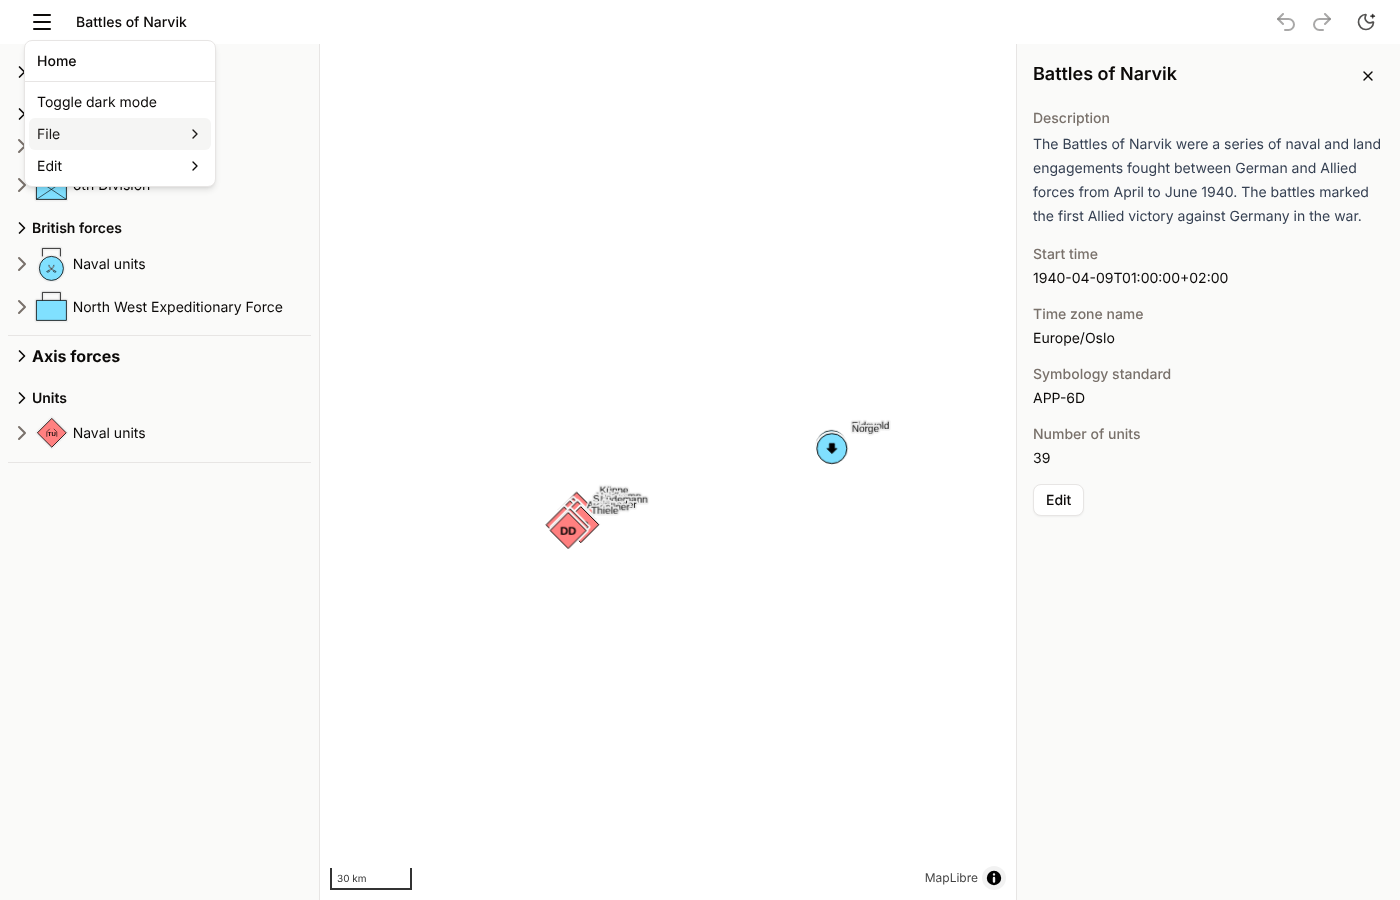
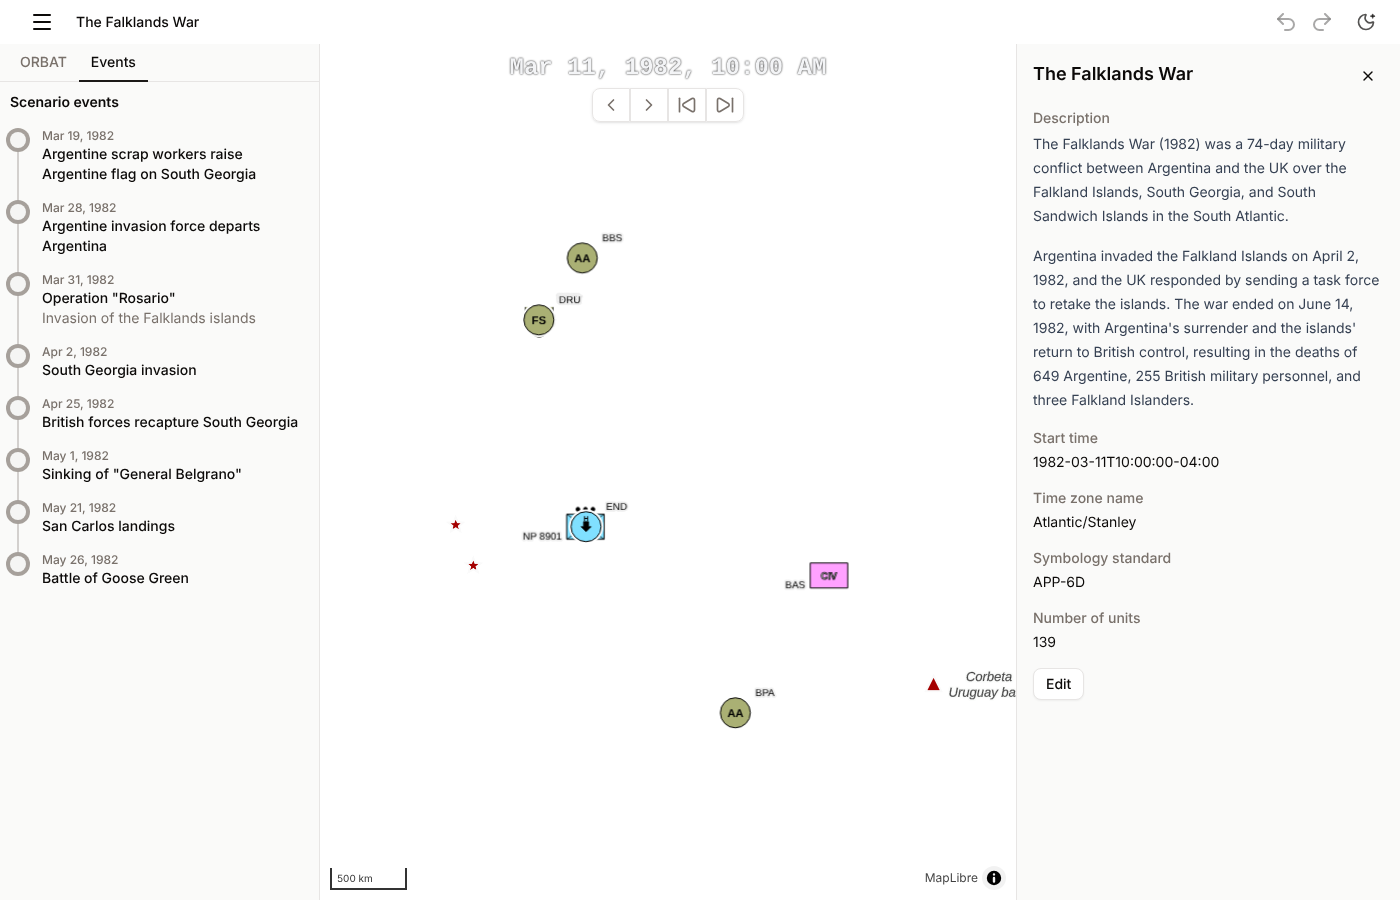
feat(web): scenario events list and details
Add the Events tab of the left panel (ScenarioEventsPanel.vue) and the
read part of ScenarioEventDetails.vue, which follows next/previous event
steps as in the Vue app.

Claude-Session: https://claude.ai/code/session_015wRr8ED4m1CQKZS62by9iH

diff --git a/apps/web/src/app/features/editor/scenario-events.ts b/apps/web/src/app/features/editor/scenario-events.ts
@@ -1,0 +1,187 @@
+import { ChangeDetectionStrategy, Component, computed, DestroyRef, inject } from '@angular/core';
+import { LucideX } from '@lucide/angular';
+import type { NScenarioEvent } from '@/types/internalModels';
+import { renderMarkdown } from '@/composables/formatting';
+import { resolveTimeZone } from '@/utils/militaryTimeZones';
+import { ScenarioService } from '../../core/scenario/scenario.service';
+import { SelectionService } from '../../core/ui/selection.service';
+import { TimeFormatService } from '../../core/ui/time-format.service';
+import { ButtonDirective } from '../../shared/ui/button';
+
+/** The scenario's time zone and formatters, shared by the event components. */
+function useEventTime() {
+  const scenarioService = inject(ScenarioService);
+  const timeFormat = inject(TimeFormatService);
+  const zone = scenarioService.select((s) => resolveTimeZone(s.store.state.info.timeZone ?? 'UTC'));
+  return {
+    date: computed(() =>
+      timeFormat.formatter(zone(), timeFormat.scenarioSettings(), { dateOnly: true }),
+    ),
+    dateTime: computed(() => timeFormat.formatter(zone(), timeFormat.scenarioSettings())),
+  };
+}
+
+/** The list of scenario events (src/modules/scenarioeditor/ScenarioEventsPanel.vue). */
+@Component({
+  selector: 'app-scenario-events-panel',
+  template: `
+    <div class="p-0.5" data-testid="scenario-events">
+      <h2 class="text-heading text-sm font-semibold">Scenario events</h2>
+      <div class="flow-root">
+        <ul class="mt-4">
+          @for (event of events(); track event.id; let last = $last) {
+            <li class="group flex">
+              <div class="relative flex-auto pb-4">
+                @if (!last) {
+                  <span
+                    class="bg-muted-foreground/30 absolute top-2 left-2 -ml-px h-full w-0.5"
+                    aria-hidden="true"
+                  ></span>
+                }
+                <div class="relative flex space-x-4">
+                  <button
+                    type="button"
+                    class="ring-ring mt-1 flex size-4 items-center justify-center rounded-full ring-4"
+                    [class.bg-muted]="event.startTime > currentTime()"
+                    [class.bg-background]="event.startTime < currentTime()"
+                    [class.bg-accent-foreground]="event.startTime === currentTime()"
+                    [attr.aria-label]="'Go to ' + event.title"
+                    (click)="onEventClick(event)"
+                  ></button>
+                  <button
+                    type="button"
+                    class="min-w-0 flex-1 cursor-pointer text-left text-sm"
+                    [class]="
+                      event.startTime === currentTime()
+                        ? 'border-primary/60 bg-primary/10 rounded-md border px-2 py-1'
+                        : ''
+                    "
+                    data-testid="scenario-event"
+                    (click)="onEventClick(event)"
+                  >
+                    <p class="text-muted-foreground text-xs font-medium">
+                      {{ time.date().format(event.startTime) }}
+                    </p>
+                    <p class="font-medium" data-testid="scenario-event-title">{{ event.title }}</p>
+                    @if (event.subTitle) {
+                      <p class="text-muted-foreground">{{ event.subTitle }}</p>
+                    }
+                  </button>
+                </div>
+              </div>
+            </li>
+          } @empty {
+            <li class="text-muted-foreground text-sm">No scenario events</li>
+          }
+        </ul>
+      </div>
+    </div>
+  `,
+  changeDetection: ChangeDetectionStrategy.OnPush,
+})
+export class ScenarioEventsPanel {
+  private readonly scenarioService = inject(ScenarioService);
+  private readonly selection = inject(SelectionService);
+  protected readonly time = useEventTime();
+  protected readonly events = this.scenarioService.select((s) =>
+    s.store.state.events.map((id) => {
+      const { id: eventId, title, subTitle, startTime } = s.store.state.eventMap[id];
+      return { id: eventId, title, subTitle, startTime };
+    }),
+  );
+  protected readonly currentTime = this.scenarioService.select((s) => s.store.state.currentTime);
+
+  /** `goToScenarioEvent` moves the clock; the details panel then shows the event. */
+  protected onEventClick(event: { id: string }): void {
+    const scenario = this.scenarioService.scenario;
+    scenario.time.goToScenarioEvent(scenario.store.state.eventMap[event.id] as NScenarioEvent);
+    this.selection.clear();
+    this.selection.items.activeScenarioEventId.value = event.id;
+  }
+}
+
+/**
+ * Details of the active scenario event (read part of ScenarioEventDetails.vue): title, time,
+ * subtitle, image and description. Editing, location and actions are a later lot (G-012).
+ */
+@Component({
+  selector: 'app-scenario-event-details',
+  imports: [ButtonDirective, LucideX],
+  template: `
+    @let e = event();
+    @if (e) {
+      <aside
+        class="bg-sidebar text-sidebar-foreground flex h-full flex-col overflow-auto p-4"
+        aria-label="Event details"
+        data-testid="event-details"
+      >
+        <header class="flex items-start justify-between gap-3">
+          <div class="min-w-0">
+            <h2 class="text-heading text-lg font-semibold break-words" data-testid="event-title">
+              {{ e.title }}
+            </h2>
+            <p class="text-muted-foreground text-sm">{{ time.dateTime().format(e.startTime) }}</p>
+          </div>
+          <button
+            appButton
+            variant="ghost"
+            size="icon-sm"
+            type="button"
+            aria-label="Close event details"
+            (click)="close()"
+          >
+            <svg lucideX></svg>
+          </button>
+        </header>
+        @if (e.imageUrl) {
+          <figure class="mt-4">
+            <img class="w-full rounded-md" [src]="e.imageUrl" alt="" />
+            @if (e.imageCaption) {
+              <figcaption class="text-muted-foreground mt-1 text-xs">
+                {{ e.imageCaption }}
+              </figcaption>
+            }
+          </figure>
+        }
+        @if (e.subTitle) {
+          <p class="text-muted-foreground mt-4 text-sm">{{ e.subTitle }}</p>
+        }
+        <div class="prose prose-sm dark:prose-invert mt-4" [innerHTML]="description()"></div>
+      </aside>
+    }
+  `,
+  changeDetection: ChangeDetectionStrategy.OnPush,
+  host: { class: 'block h-full' },
+})
+export class ScenarioEventDetails {
+  private readonly scenarioService = inject(ScenarioService);
+  private readonly selection = inject(SelectionService);
+  protected readonly time = useEventTime();
+
+  protected readonly event = this.scenarioService.select((s) => {
+    const id = this.selection.items.activeScenarioEventId.value;
+    const event = id ? s.store.state.eventMap[id] : undefined;
+    if (!event) return null;
+    return {
+      title: event.title,
+      subTitle: event.subTitle,
+      startTime: event.startTime,
+      description: event.description ?? '',
+      imageUrl: event.media?.[0]?.url,
+      imageCaption: event.media?.[0]?.caption,
+    };
+  });
+  protected readonly description = computed(() => renderMarkdown(this.event()?.description ?? ''));
+
+  constructor() {
+    // As ScenarioEventDetails.vue: stepping to another event shows that event.
+    const off = this.scenarioService.scenario.time.onGoToScenarioEventEvent(({ event }) => {
+      if (event.id) this.selection.items.activeScenarioEventId.value = event.id;
+    });
+    inject(DestroyRef).onDestroy(() => off.off());
+  }
+
+  protected close(): void {
+    this.selection.items.activeScenarioEventId.value = null;
+  }
+}

diff --git a/apps/web/src/app/features/editor/scenario-editor-page.html b/apps/web/src/app/features/editor/scenario-editor-page.html
@@ -78,10 +78,38 @@
     </nav>
     <div class="relative flex min-h-0 flex-1">
       <aside
-        class="bg-sidebar border-border w-80 shrink-0 overflow-auto border-r p-2"
-        aria-label="ORBAT panel"
+        class="bg-sidebar border-border flex w-80 shrink-0 flex-col border-r"
+        aria-label="Scenario panel"
       >
-        <app-orbat-tree />
+        <div class="border-border flex border-b px-2" role="tablist" aria-label="Panels">
+          @for (tab of tabs; track tab.id) {
+            <button
+              type="button"
+              role="tab"
+              class="-mb-px border-b-2 px-3 py-2 text-sm font-medium"
+              [class]="
+                activeTab() === tab.id
+                  ? 'border-primary text-foreground'
+                  : 'text-muted-foreground hover:text-foreground border-transparent'
+              "
+              [attr.aria-selected]="activeTab() === tab.id"
+              [attr.data-testid]="'tab-' + tab.id"
+              (click)="activeTab.set(tab.id)"
+            >
+              {{ tab.label }}
+            </button>
+          }
+        </div>
+        <div class="min-h-0 flex-1 overflow-auto p-2" role="tabpanel">
+          @switch (activeTab()) {
+            @case ('orbat') {
+              <app-orbat-tree />
+            }
+            @case ('events') {
+              <app-scenario-events-panel />
+            }
+          }
+        </div>
       </aside>
       <main class="relative min-w-64 flex-auto">
         <app-scenario-map />
@@ -92,6 +120,10 @@
       @if (selection.activeUnitId()) {
         <div class="border-border w-96 shrink-0 border-l">
           <app-unit-details />
+        </div>
+      } @else if (activeEventId()) {
+        <div class="border-border w-96 shrink-0 border-l">
+          <app-scenario-event-details />
         </div>
       } @else if (showInfoPanel()) {
         <div class="border-border w-96 shrink-0 border-l">

diff --git a/apps/web/src/app/features/editor/scenario-editor-page.ts b/apps/web/src/app/features/editor/scenario-editor-page.ts
@@ -30,6 +30,7 @@ import { ScenarioNotFound } from './scenario-not-found';
 import { UnitDetails } from './unit-details';
 import { MainMenu, type MainMenuAction } from './main-menu';
 import { ScenarioInfoPanel } from './scenario-info-panel';
+import { ScenarioEventDetails, ScenarioEventsPanel } from './scenario-events';
 
 type LeaveChoice = 'save' | 'discard' | 'cancel';
 
@@ -47,6 +48,8 @@ type LeaveChoice = 'save' | 'discard' | 'cancel';
     OrbatTree,
     UnitDetails,
     ScenarioInfoPanel,
+    ScenarioEventsPanel,
+    ScenarioEventDetails,
     MainMenu,
     ScenarioNotFound,
     LucideUndo2,
@@ -97,6 +100,16 @@ export class ScenarioEditorPage {
   protected readonly savedDirty = this.scenarioService.selectWhenReady(
     (s) => s.io.savedDirty.value,
     false,
+  );
+  /** The tabs of the left panel (MapEditorDesktopPanel.vue); the others are later lots. */
+  protected readonly tabs = [
+    { id: 'orbat', label: 'ORBAT' },
+    { id: 'events', label: 'Events' },
+  ] as const;
+  protected readonly activeTab = signal<'orbat' | 'events'>('orbat');
+  protected readonly activeEventId = this.scenarioService.selectWhenReady(
+    () => this.selection.items.activeScenarioEventId.value ?? null,
+    null,
   );
   protected readonly showInfoPanel = this.scenarioService.selectWhenReady(
     () => this.selection.items.showScenarioInfo.value,

diff --git a/docs/migration/03-parity-matrix.md b/docs/migration/03-parity-matrix.md
@@ -153,3 +153,5 @@
 | P-145 | Menu principal : Home, thème, Fichier (télécharger, sauvegarder, nouveau, dupliquer, infos), Édition (undo, redo, revenir à l’état ouvert / sauvegardé, copier) | modules/scenarioeditor/MainMenu.vue, ScenarioEditor.vue#onScenarioAction | code | partiel | CDK Menu ; e2e : ouverture des menus, Home avec invite de sortie ; entrées absentes : chiffrement, chargement, partage, export, import, image, coller, View, Tools, Help (G-010) |
 | P-146 | Panneau d’infos du scénario (onglet Info) | ScenarioInfoPanel.vue, ScenarioInfoDetails.vue | code | partiel | test composant (affichage, édition, undo) ; e2e : affiché à l’ouverture ; heure de début non modifiable, autres onglets absents (G-009) |
 | P-147 | Heure du scénario sur la carte, jour ±1, événement précédent/suivant | components/MapTimeController.vue, useScenarioMapModeController.ts | code | partiel | e2e : affichage, jour suivant, jour précédent (normalisé à midi comme en Vue) ; modale de date et réglages du format absents (G-011) |
+| P-148 | Liste des événements du scénario, aller à un événement | modules/scenarioeditor/ScenarioEventsPanel.vue | code | partiel | e2e (Falklands, 8 événements) : liste, clic → horloge et détails ; menu d’actions par événement, ajout absents (G-012) |
+| P-149 | Détails d’un événement (lecture), suivi de « événement suivant » | modules/scenarioeditor/ScenarioEventDetails.vue | code | partiel | e2e : titre, heure, suivi de l’événement suivant ; édition, lieu, médias éditables absents (G-012) |

diff --git a/docs/migration/MORNING_REPORT.md b/docs/migration/MORNING_REPORT.md
@@ -4,9 +4,9 @@
 
 ## En bref
 - L'app **Angular 22.2.4** (`apps/web`, zoneless, standalone, OnPush, signals, Signal Forms) fait fonctionner **le parcours central** : accueil → démo ou scénario stocké → arbre ORBAT → carte avec unités → sélection → édition → undo/redo → sauvegarde IndexedDB → rechargement, brouillon et invite de sortie.
-- Création de scénario (`/newscenario`), notifications, menu principal (partiel), panneau d'infos du scénario et pas de temps (jour, événement) portés.
-- Preuves : **17 tests unitaires/composants** Angular, **e2e 31/31** dans Chromium headless, **parité de sérialisation** des 3 démos avec l'app Vue (mêmes données produites après chargement, édition, undo, redo).
-- Matrice de parité : **8 lignes vérifiées, 9 partielles, 130 non commencées sur 147**. L'essentiel de l'interface Vue (533 composants) reste à porter.
+- Création de scénario (`/newscenario`), notifications, menu principal (partiel), panneau d'infos du scénario pas de temps (jour, événement), liste et détails des événements portés.
+- Preuves : **17 tests unitaires/composants** Angular, **e2e 35/35** dans Chromium headless, **parité de sérialisation** des 3 démos avec l'app Vue (mêmes données produites après chargement, édition, undo, redo).
+- Matrice de parité : **8 lignes vérifiées, 11 partielles, 130 non commencées sur 149**. L'essentiel de l'interface Vue (533 composants) reste à porter.
 
 ## Lancer
 ```bash

diff --git a/docs/migration/MIGRATION_STATUS.md b/docs/migration/MIGRATION_STATUS.md
@@ -23,9 +23,10 @@
 | Lot 2a — notifications, `/newscenario` | fait | `notifications.spec.ts`, e2e 25/25 (3 passages) |
 | Lot 2b — menu principal, panneau d'infos | fait (partiel) | test composant, e2e 28/28 |
 | Lot 7a — heure et pas de temps sur la carte | fait (partiel) | e2e 31/31 |
+| Lot 7b — liste et détails des événements | fait (partiel) | e2e 35/35 |
 
 ## Tests Angular (apps/web)
-`ng test` : 5 fichiers, 17 tests réussis. e2e : 31/31 (`apps/web/e2e/critical-paths.e2e.cjs`, Chromium headless, 3 passages consécutifs).
+`ng test` : 5 fichiers, 17 tests réussis. e2e : 35/35 (`apps/web/e2e/critical-paths.e2e.cjs`, Chromium headless, 3 passages consécutifs).
 
 ## Prochaine action précise
-Événements du scénario (liste, détails, `ScenarioEventDetails.vue`) ; puis modes Grille/Organigramme, recherche (Ctrl+K), aide clavier (`?`).
+Cadrage carte sur le lieu d'un événement (`flyToEventLocation`, `scenarioEvents.ts`) ; édition des événements ; puis onglet Couches du panneau gauche, recherche (Ctrl+K), aide clavier (`?`).

diff --git a/docs/migration/KNOWN_GAPS.md b/docs/migration/KNOWN_GAPS.md
@@ -47,3 +47,6 @@ Format : élément · symptôme · contournement · piste de correction.
 ## G-011 — Temps : modale de date et réglages du format
 - **Symptôme** : la modale « Select time and date » et le panneau des formats d'heure ne sont pas portés ; les réglages existants (clés `scenarioTimeFormat`/`trackTimeFormat`) sont lus.
 - **Écart de comportement** : `TimeFormatService` passe le fuseau par `resolveTimeZone` (fuseaux militaires acceptés) ; l'amont passe le nom brut à `Intl`. Identique pour les fuseaux IANA.
+
+## G-012 — Événements : édition
+- **Symptôme** : ajout, suppression, édition (titre, heure, lieu `where`, médias) et menu d'actions des événements non portés ; le cadrage de la carte sur le lieu de l'événement (`flyToEventLocation`, scenarioEvents.ts) non porté.
